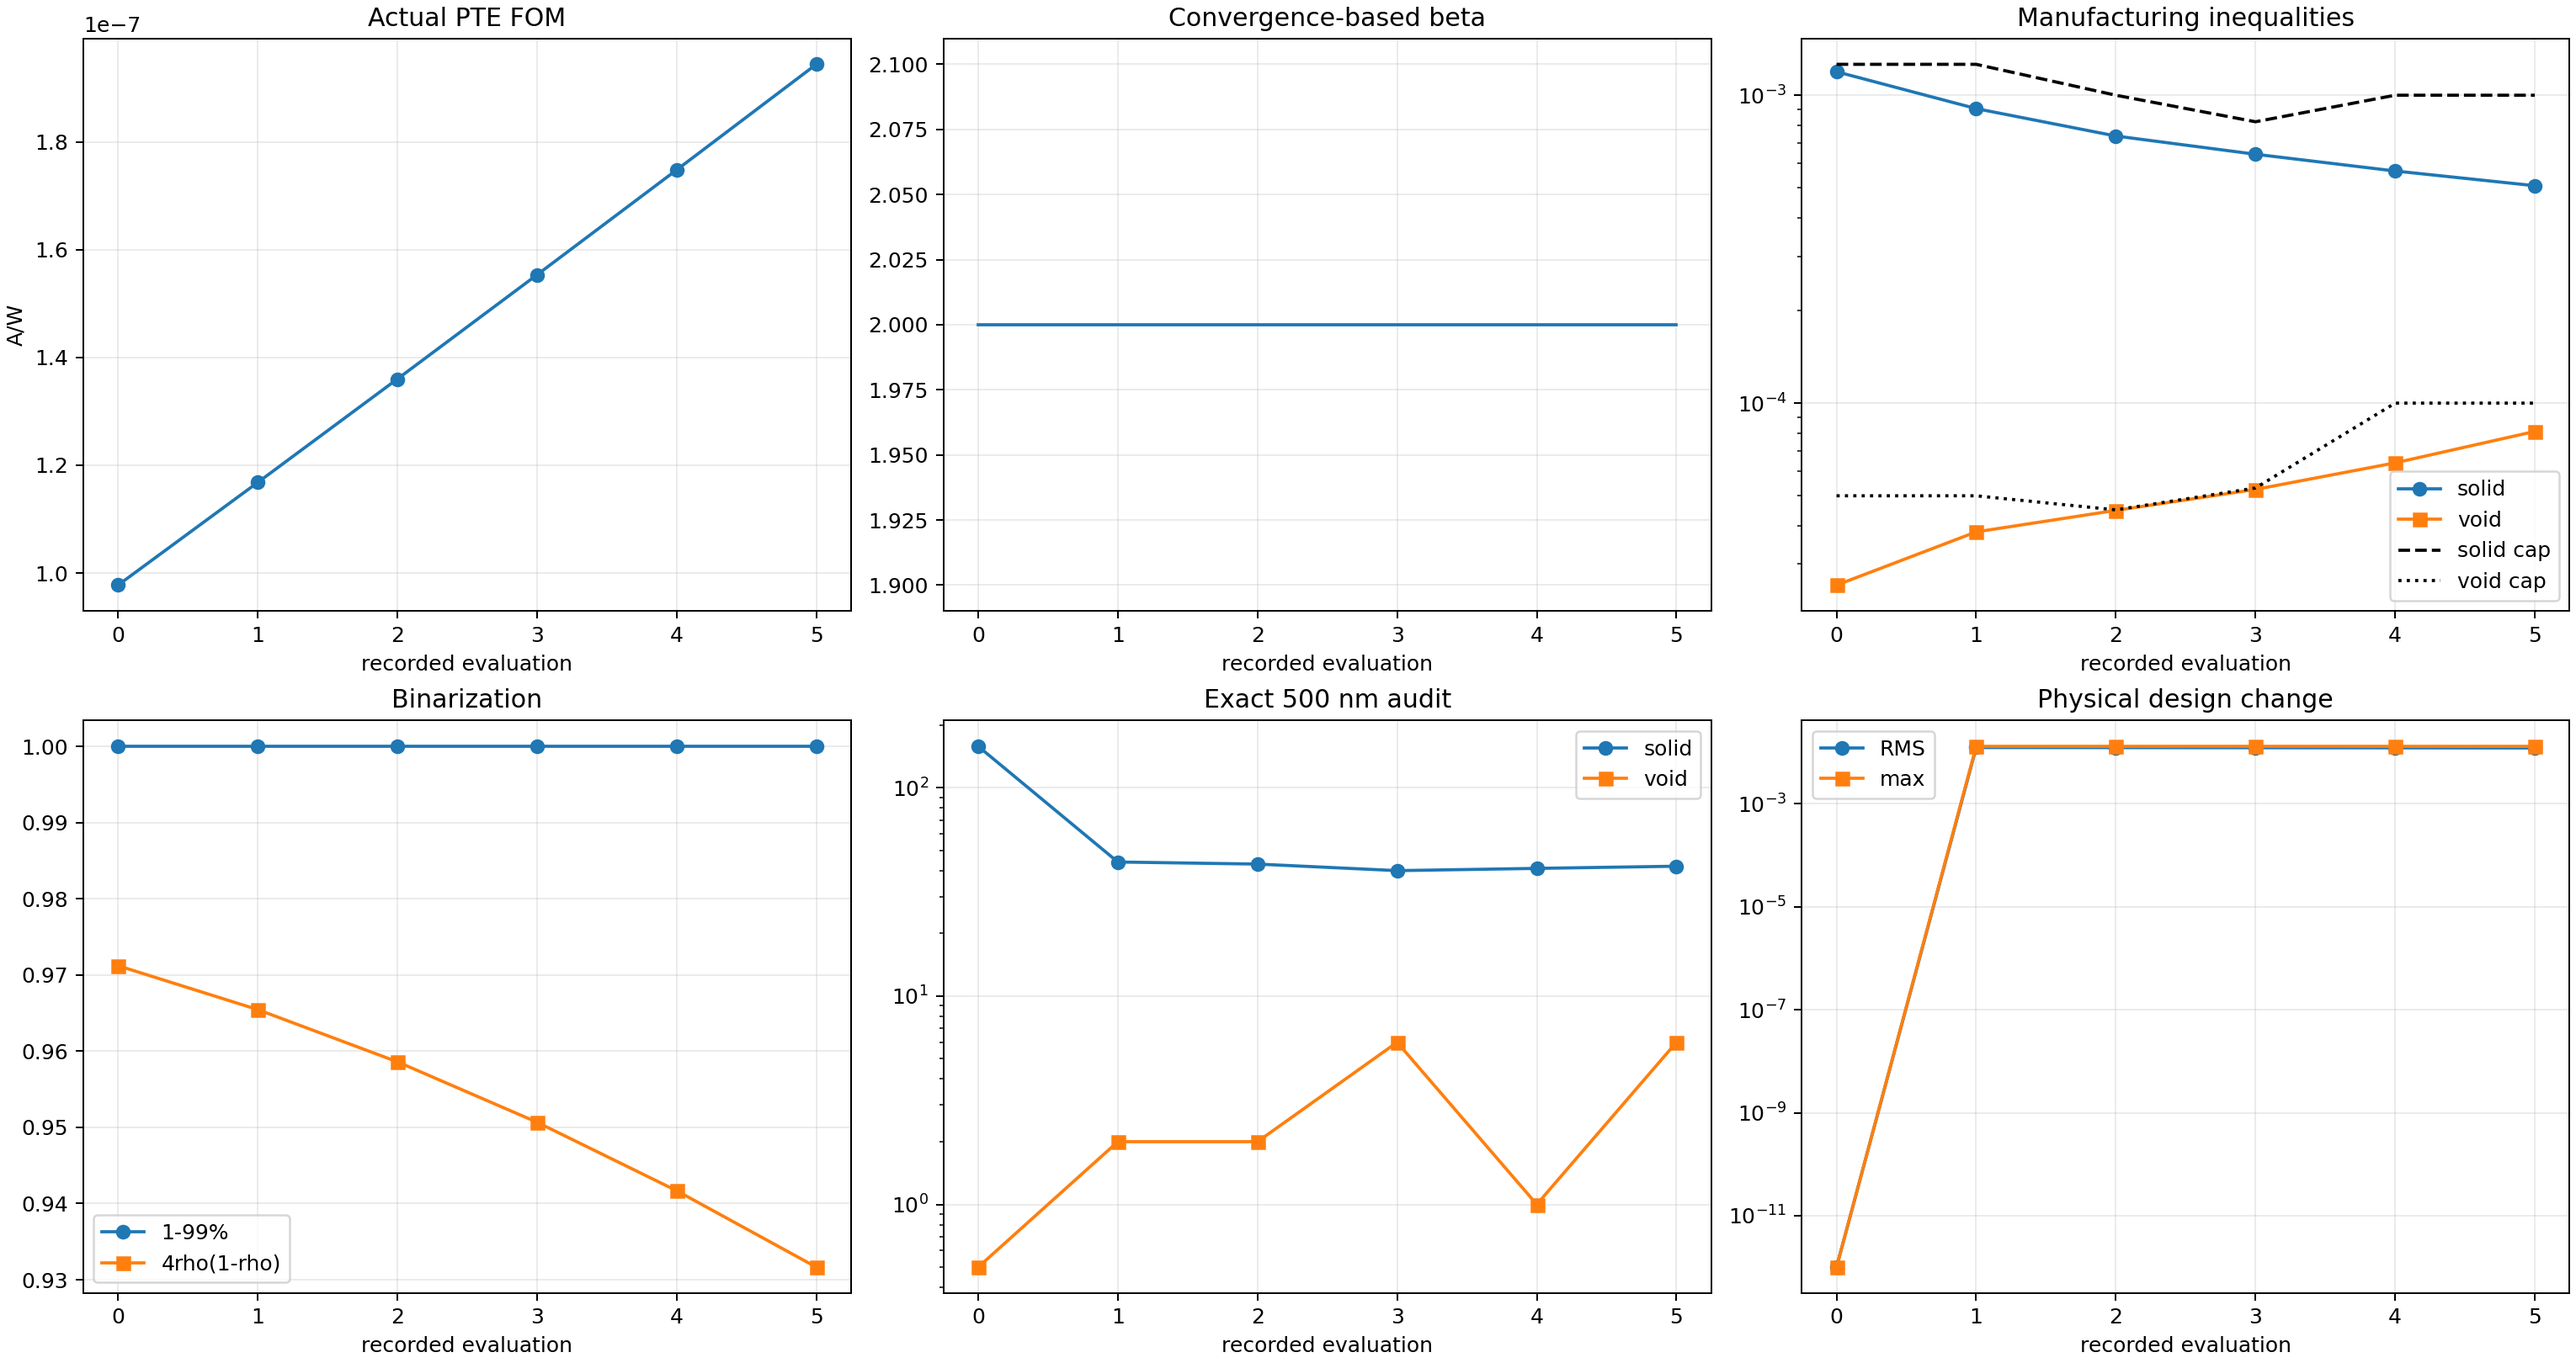
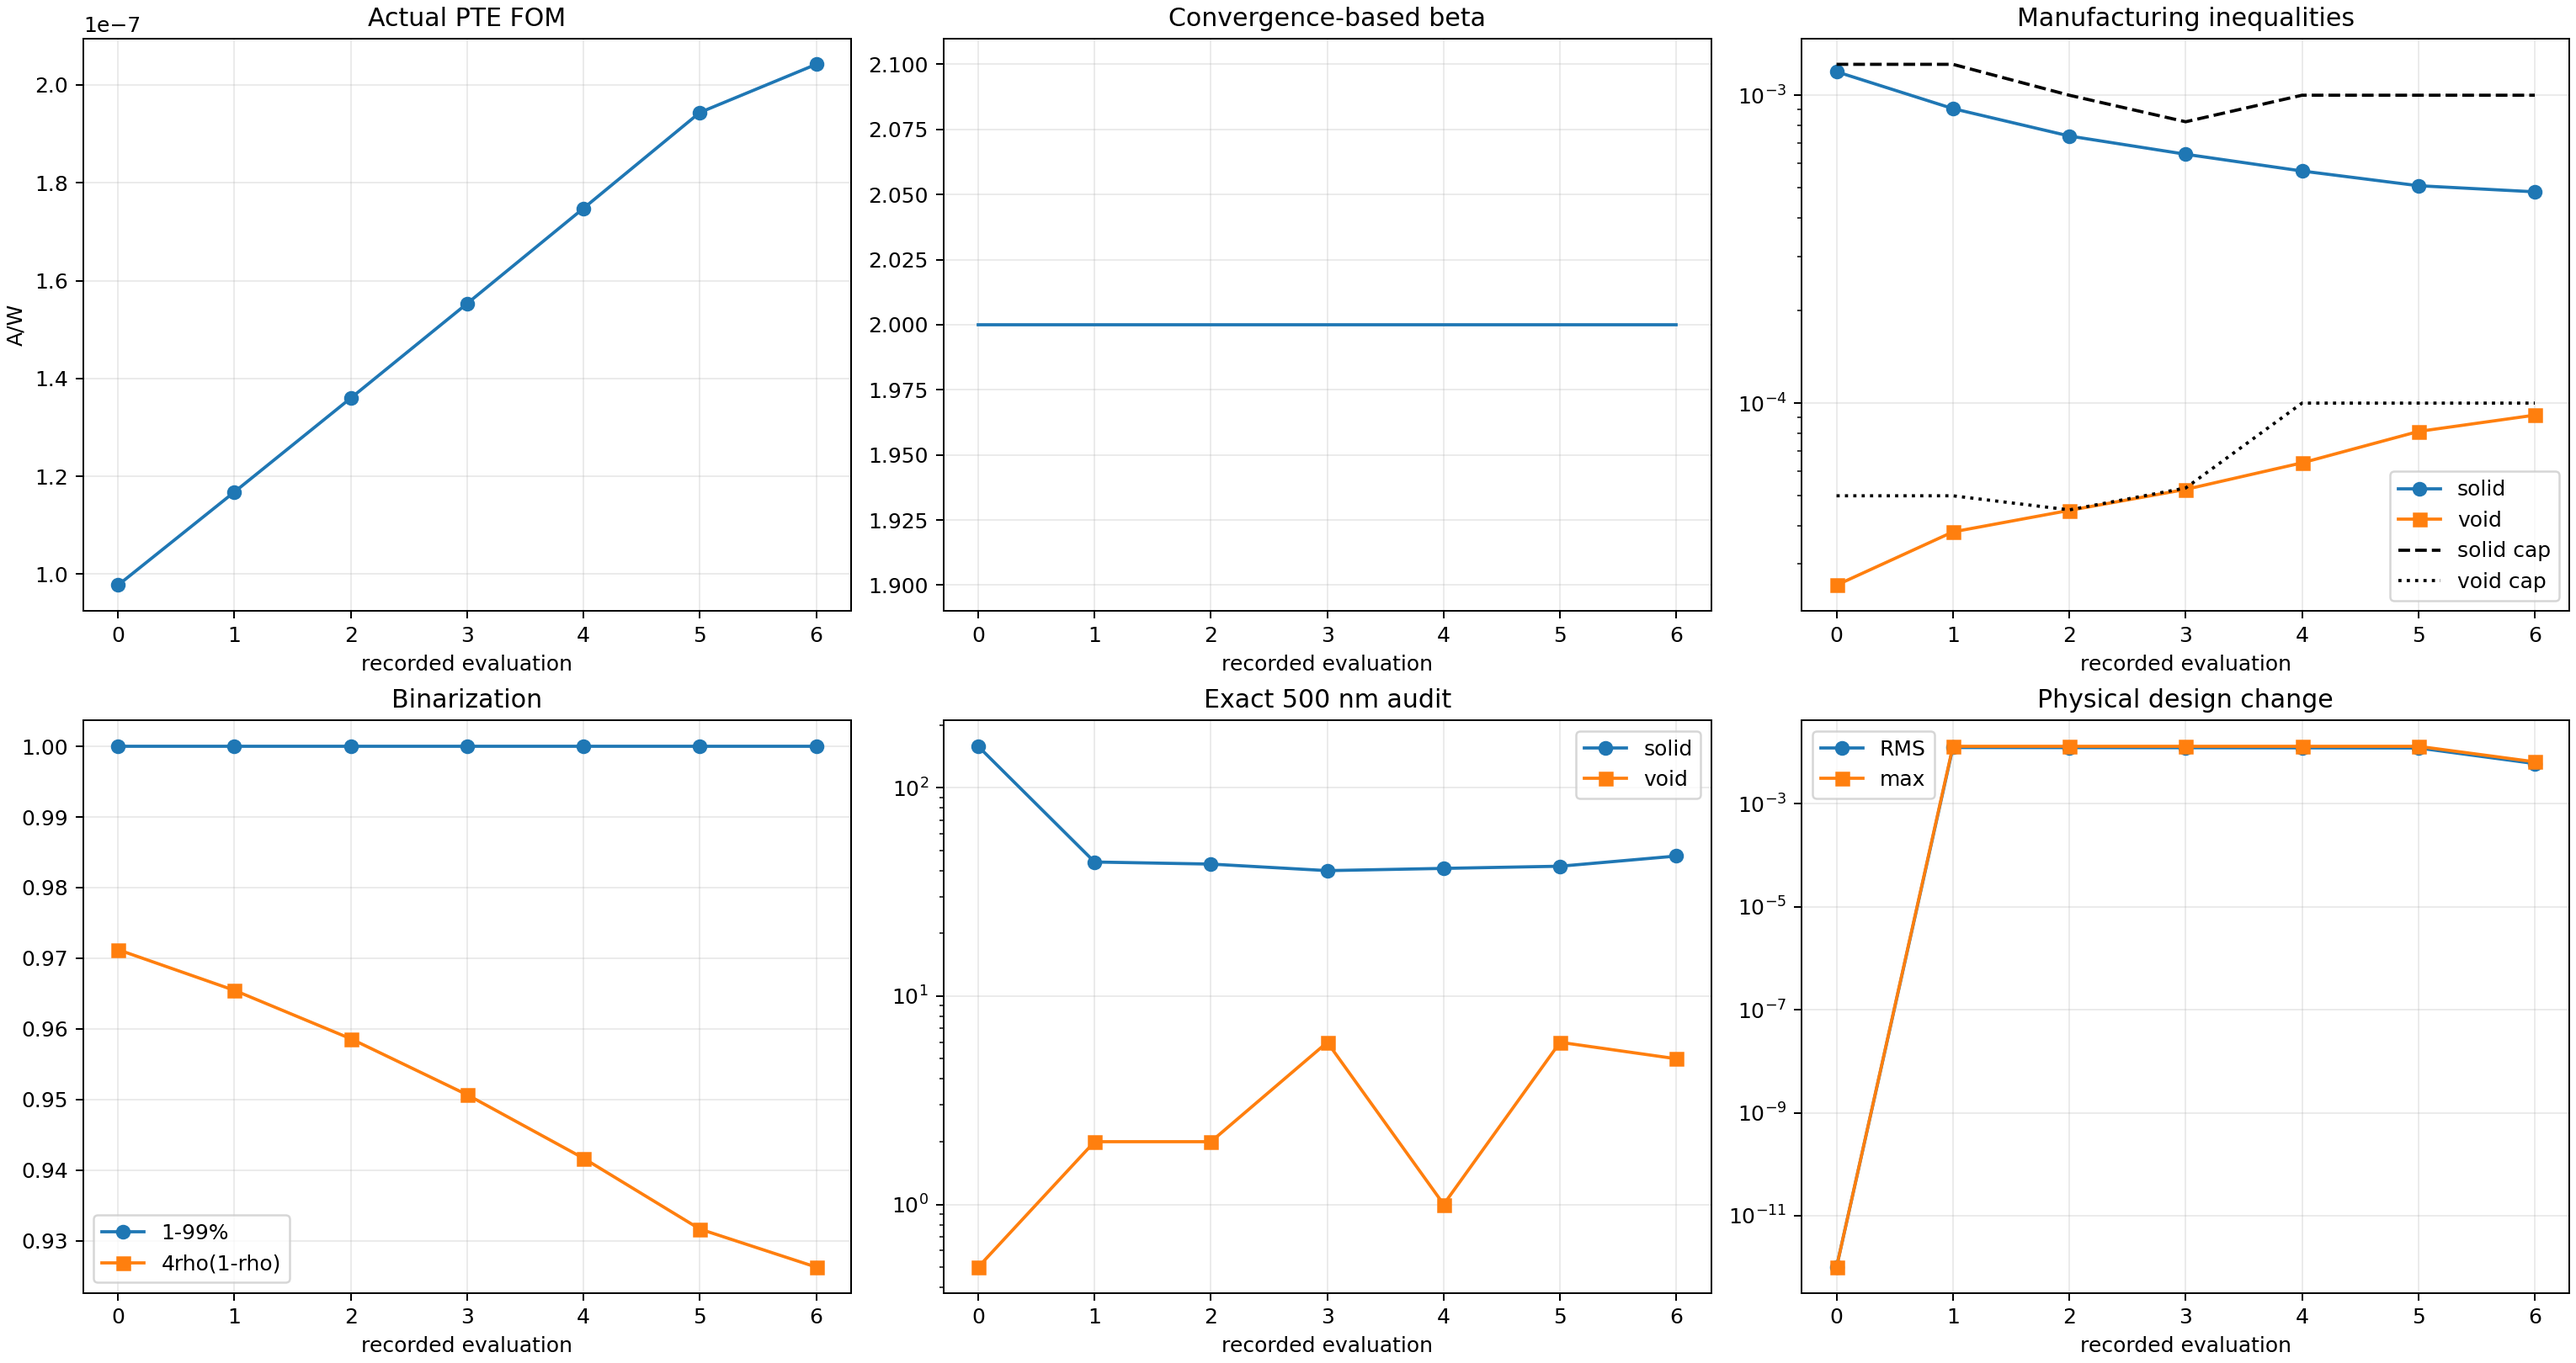
Record Run 005 run005_b002_s006_g006_accepted_mma

diff --git a/photothermal_pte/optimization_runs/run_005_lowbeta_topology_exploration_pilot/results/OPTIMIZATION_REPORT.md b/photothermal_pte/optimization_runs/run_005_lowbeta_topology_exploration_pilot/results/OPTIMIZATION_REPORT.md
@@ -1,18 +1,13 @@
-# Run 005 low-beta topology-exploration pilot
+# Run 005 fully binary PTE optimization continuation
 
-Status: `PAUSED_AFTER_RUN005_BOUNDED_BETA2_GPU_PILOT`
+Status: `RUNNING_RUN005_FULL_BINARY_BETA_CONTINUATION`
 
-Current stage: beta=2, accepted stage iteration=5, global iteration=5.
+Current stage: beta=2, accepted stage iteration=6, global iteration=6.
 
 Constraint contract: `soft_disk_opening_500nm_from_iteration_zero_v5`.
 
-Actual FOM: `1.943798604096e-07 A/W`, a cumulative `+98.8505%` from the
-immutable beta=2 baseline. Fixed-cap solid/void constraints are
-`5.082822e-04` / `8.089554e-05` with caps `1.000000e-03` / `1.000000e-04`.
+Actual FOM: `2.042168711081e-07 A/W`. Fixed-cap solid/void constraints: `4.855934e-04` / `9.138996e-05` with caps `1.000000e-03` / `1.000000e-04`.
 
-Exact 500 nm bad cells: solid `42`, void `6`. Stage convergence: `False` (need at least 8 accepted updates).
+Exact 500 nm bad cells: solid `47`, void `5`. Stage convergence: `False` (need at least 8 accepted updates).
 
-All five accepted moves were `0.01`, and every accepted update increased the
-actual solver-backed FOM. This bounded run stopped at its configured target. It
-does not promote beta or authorize full continuation. See
-`RUN005_BOUNDED_BETA2_PILOT_AUDIT.md`.
+Beta advances only after the stage FOM/density plateau. The run is not complete until the projected-binary and exact 500 nm gates pass and a fresh thresholded-binary GPU/CUDA evaluation succeeds.
